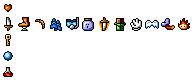
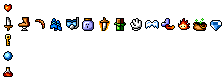
More items implemented

diff --git a/src/player.js b/src/player.js
@@ -135,7 +135,7 @@ export class Player extends CollisionObject {
         this.stopMovement();
         if (!special) {
 
-            if (this.progress.hasItem(ItemType.Fire))
+            if (this.progress.hasItem(ItemType.ProteinBar))
                 this.attackTimer += SPC_RELEASE_TIME;
         }
         else if (!this.climbing) {
@@ -296,7 +296,7 @@ export class Player extends CollisionObject {
                 ev.audio.playSample(ev.assets.samples["jump"], 0.50);
             }
             else if (this.canJump || this.jumpMargin > 0 || 
-                !this.doubleJump ||
+                (this.progress.hasItem(ItemType.Beans) && !this.doubleJump) ||
                 this.wallJumpMargin > 0) {
 
                 this.doubleJump = !this.canJump && 
@@ -336,10 +336,10 @@ export class Player extends CollisionObject {
     
         // Flapping
         this.flapping = 
+            this.progress.hasItem(ItemType.TinyWings) &&
             this.jumpReleased &&
-            this.doubleJump &&
+            (!this.progress.hasItem(ItemType.Beans) || this.doubleJump) &&
             this.attackTimer <= 0 &&
-            this.doubleJump &&
             (jumpButtonState & State.DownOrPressed) == 1 &&
             this.jumpTimer <= 0;
 
@@ -403,7 +403,7 @@ export class Player extends CollisionObject {
                        atkButtonState == State.Up;
                        
         if (!released ||
-            !this.progress.hasItem(ItemType.Fire)) 
+            !this.progress.hasItem(ItemType.ProteinBar)) 
             return;
 
         if (this.charging && released) {
@@ -678,7 +678,7 @@ export class Player extends CollisionObject {
             this.attackTimer -= ev.step;    
 
              // "Charge attack"
-            if (this.progress.hasItem(ItemType.Fire) &&
+            if (this.progress.hasItem(ItemType.ProteinBar) &&
                 !this.specialAttack &&
                 this.swordAttack && 
                 this.attackTimer <= 0) {
@@ -910,9 +910,12 @@ export class Player extends CollisionObject {
             !this.swimming &&
             this.speed.y > 0.0 &&
             ev.input.stick.x*dir > EPS) {
+            
+            if (this.progress.hasItem(ItemType.StickyGlove)) {
 
-            this.touchWall = true;
-            this.wallJumpMargin = WALL_JUMP_MARGIN;
+                this.touchWall = true;
+                this.wallJumpMargin = WALL_JUMP_MARGIN;
+            }
 
             this.wallDir = dir;
 

diff --git a/src/progress.js b/src/progress.js
@@ -15,7 +15,12 @@ export const ItemType = {
     Snorkel: 4,
     Lubricant: 5,
     DownAttack: 6,
-    Fire: 7,
+    ProteinBar: 7,
+
+    StickyGlove: 8,
+    TinyWings: 9,
+    Beans: 10,
+    FireBall: 11,
 };
 
 
